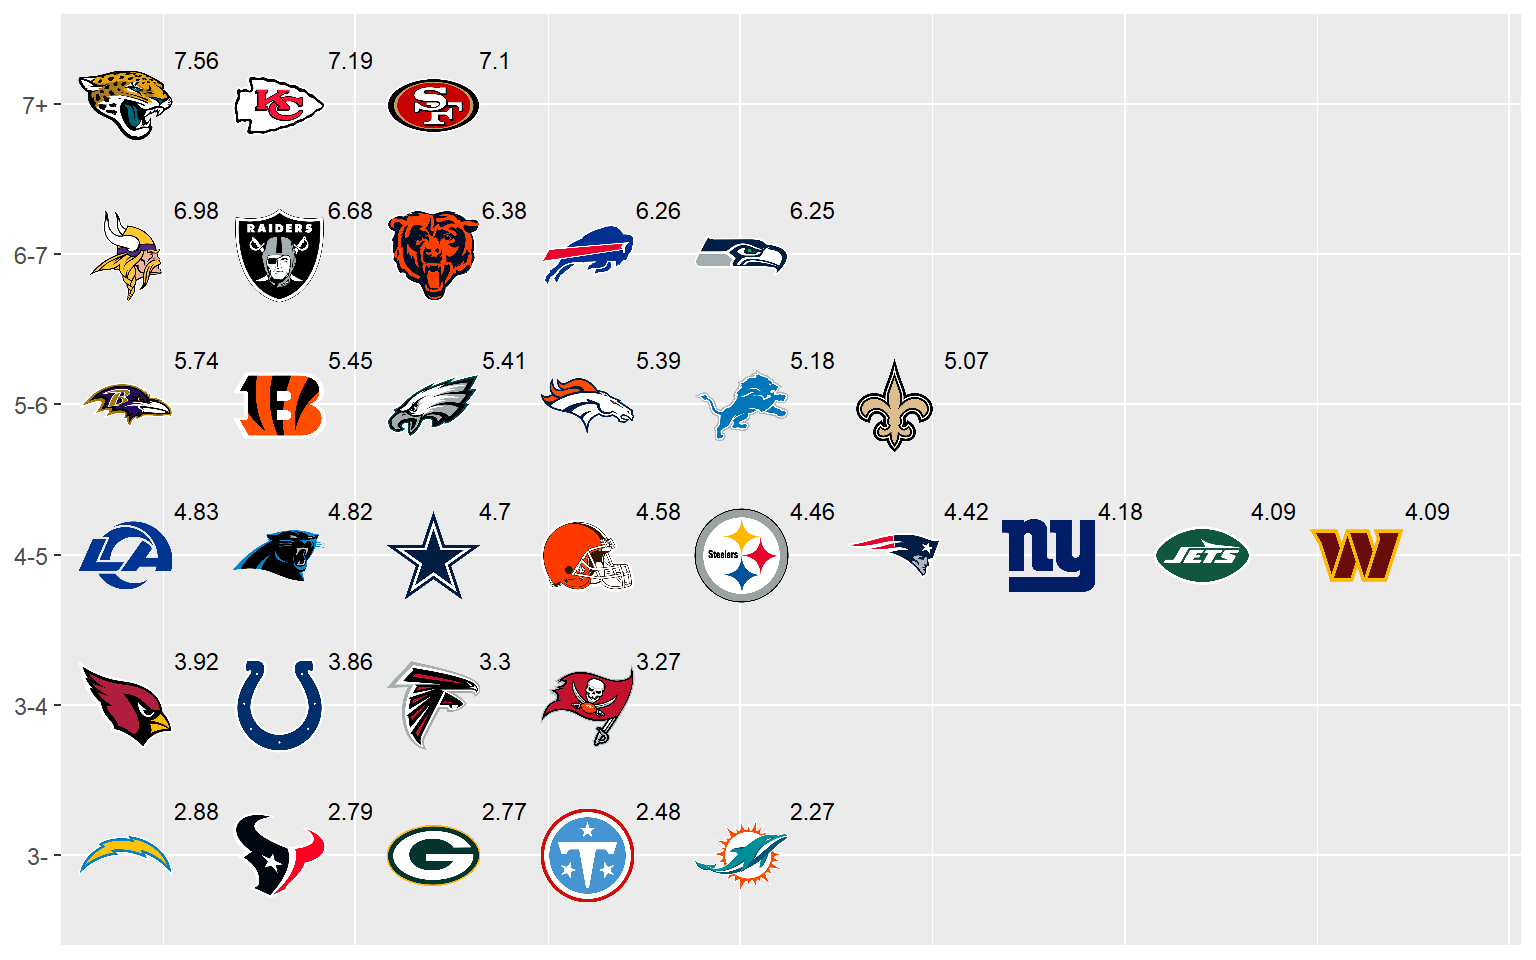
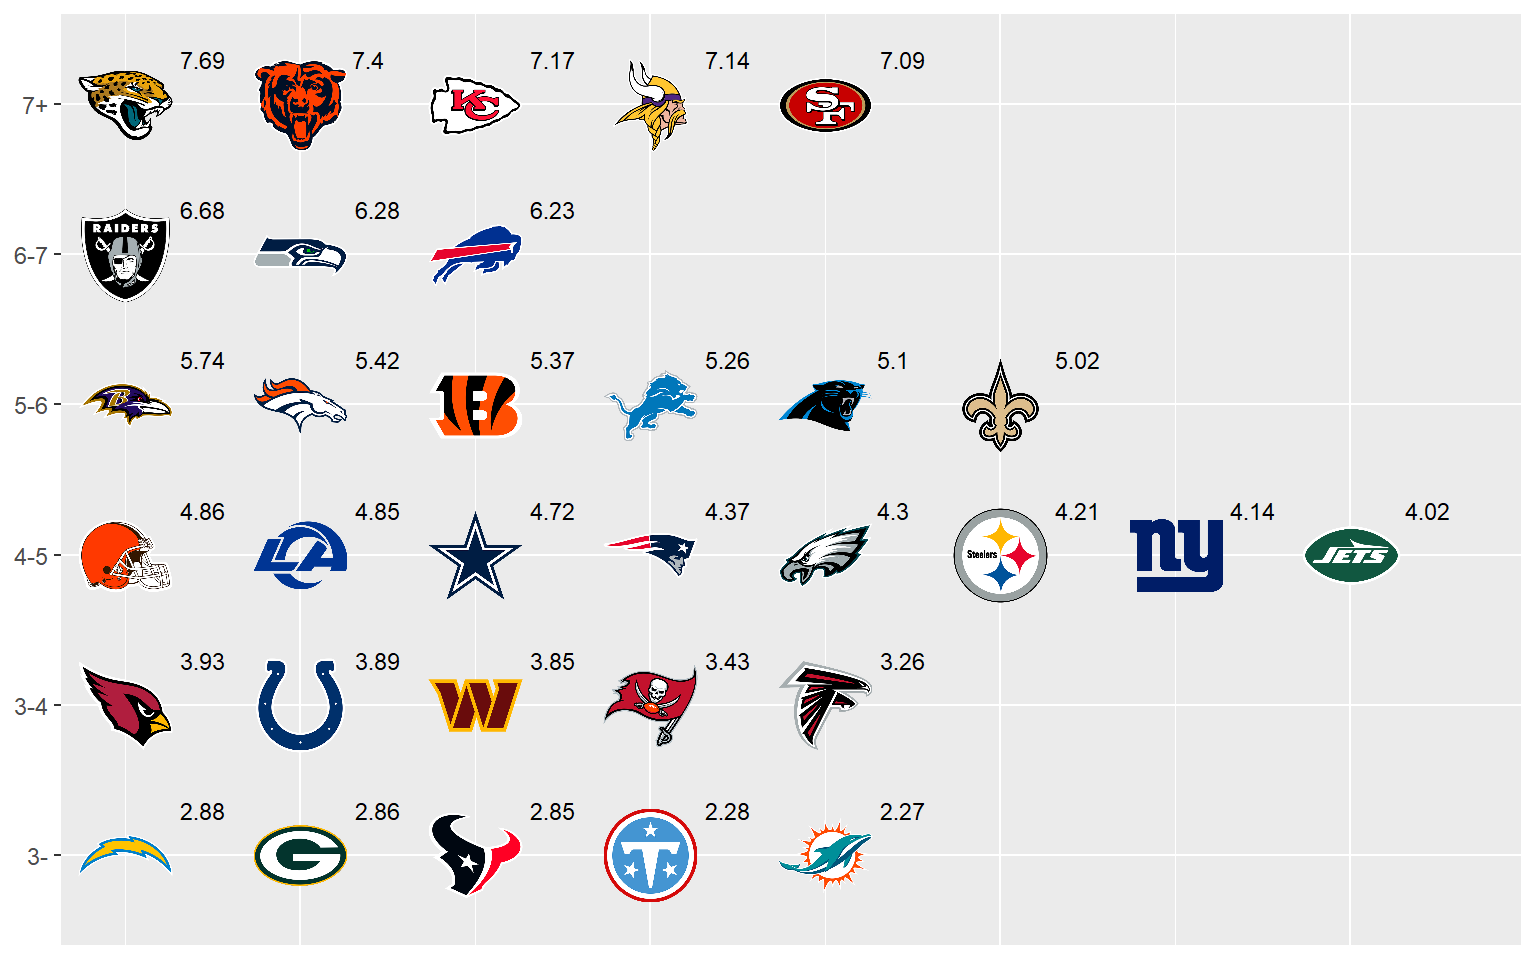
after week tnf

diff --git a/dashboard.html b/dashboard.html
@@ -111,7 +111,7 @@ grid-auto-rows: minmax(0, 1fr);">
 CURRENT WEEK
 </p>
 <p class="value-box-value">
-3
+4
 </p>
 </div>
 </div>
@@ -126,7 +126,7 @@ CURRENT WEEK
 HIGHEST RATING
 </p>
 <p class="value-box-value">
-7.56
+7.69
 </p>
 </div>
 </div>
@@ -156,7 +156,7 @@ LOWEST RATING
 AVERAGE RATING
 </p>
 <p class="value-box-value">
-4.82
+4.83
 </p>
 </div>
 </div>
@@ -173,8 +173,8 @@ TEAM RATINGS
 </span></div></div>
 <div class="card-body html-fill-item html-fill-container">
 <div class="cell-output-display html-fill-item html-fill-container">
-<div class="datatables html-widget html-fill-item html-fill-container" id="htmlwidget-a39356e827d1d55338df" style="width:100%;height:auto;"></div>
-<script type="application/json" data-for="htmlwidget-a39356e827d1d55338df">{"x":{"filter":"none","vertical":false,"data":[["1","2","3","4","5","6","7","8","9","10","11","12","13","14","15","16","17","18","19","20","21","22","23","24","25","26","27","28","29","30","31","32"],["JAX","KC","SF","MIN","LV","CHI","BUF","SEA","BAL","CIN","PHI","DEN","DET","NO","LA","CAR","DAL","CLE","PIT","NE","NYG","NYJ","WAS","ARI","IND","ATL","TB","LAC","HOU","GB","TEN","MIA"],[1.33,2,2,2,2,1,2,1.33,1.33,1.33,2,1.33,1.33,0.67,0.67,0.67,0.67,1.33,1.33,0.67,1.33,0.67,0.67,0.67,0.67,0.67,0,0,0,0.67,0,0],[1.96,1.8,2,1.63,1.71,1.35,1.49,1.53,1.31,1.37,1.14,0.82,0.98,0.98,0.98,1.14,1.14,0.67,0.88,0.71,0.84,1.08,0.67,0.65,0.63,0.67,0.67,0.37,0.59,0.31,0.57,0],[1.86,1.85,2,0.78,0.97,1.83,2,1.38,1.76,1.39,1.49,0.68,1.76,1.06,0.76,1.07,2,0.83,0.38,0.23,0.89,1.11,1.05,1.16,1.2,0,0.24,0,0.51,0.65,0.35,0.18],[1.65,1.23,0.92,2,2,0.79,0.54,1.55,0.6899999999999999,1.17,0.78,0.93,0.16,0.89,1.19,1.19,0.14,0.68,1.33,1.36,0.76,1.04,0.44,0.33,0.31,1.49,1.17,1.21,0.6899999999999999,0.37,0.75,0.09],[0.76,0.31,0.18,0.57,0,1.41,0.23,0.46,0.65,0.19,0,1.63,0.95,1.47,1.23,0.75,0.75,1.07,0.54,1.45,0.36,0.19,1.26,1.11,1.05,0.47,1.19,1.3,1,0.77,0.8100000000000001,2],[7.56,7.19,7.1,6.98,6.68,6.38,6.26,6.25,5.74,5.45,5.41,5.39,5.18,5.07,4.83,4.82,4.7,4.58,4.46,4.42,4.18,4.09,4.09,3.92,3.86,3.3,3.27,2.88,2.79,2.77,2.48,2.27]],"container":"<table class=\"display\">\n  <thead>\n    <tr>\n      <th> <\/th>\n      <th>team<\/th>\n      <th>win_pct<\/th>\n      <th>point_diff<\/th>\n      <th>off_epa<\/th>\n      <th>def_epa<\/th>\n      <th>sos<\/th>\n      <th>total<\/th>\n    <\/tr>\n  <\/thead>\n<\/table>","options":{"bPaginate":false,"dom":"ifrt","language":{"info":"Showing _TOTAL_ entries"},"columnDefs":[{"className":"dt-right","targets":[2,3,4,5,6,7]},{"orderable":false,"targets":0},{"name":" ","targets":0},{"name":"team","targets":1},{"name":"win_pct","targets":2},{"name":"point_diff","targets":3},{"name":"off_epa","targets":4},{"name":"def_epa","targets":5},{"name":"sos","targets":6},{"name":"total","targets":7}],"order":[],"autoWidth":false,"orderClasses":false}},"evals":[],"jsHooks":[]}</script>
+<div class="datatables html-widget html-fill-item html-fill-container" id="htmlwidget-3d8eea62af399f990ab7" style="width:100%;height:auto;"></div>
+<script type="application/json" data-for="htmlwidget-3d8eea62af399f990ab7">{"x":{"filter":"none","vertical":false,"data":[["1","2","3","4","5","6","7","8","9","10","11","12","13","14","15","16","17","18","19","20","21","22","23","24","25","26","27","28","29","30","31","32"],["JAX","CHI","KC","MIN","SF","LV","SEA","BUF","BAL","DEN","CIN","DET","CAR","NO","CLE","LA","DAL","NE","PHI","PIT","NYG","NYJ","ARI","IND","WAS","TB","ATL","LAC","GB","HOU","TEN","MIA"],[1.33,1.33,2,2,2,2,1.33,2,1.33,1.33,1.33,1.33,0.67,0.67,1.5,0.67,0.67,0.67,1.33,1,1.33,0.67,0.67,0.67,0.67,0,0.67,0,0.67,0,0,0],[1.96,1.76,1.8,1.63,2,1.71,1.53,1.49,1.31,0.82,1.37,0.98,1.14,0.98,0.73,0.98,1.14,0.71,0.73,0.82,0.84,1.08,0.65,0.63,0.67,0.67,0.67,0.37,0.31,0.59,0.57,0],[1.86,1.8,1.85,0.78,2,0.97,1.38,2,1.76,0.68,1.39,1.76,1.07,1.06,1.09,0.76,2,0.23,0.93,0.7,0.89,1.11,1.16,1.2,1.05,0.24,0,0,0.65,0.51,0.35,0.18],[1.65,1.28,1.23,2,0.92,2,1.55,0.54,0.6899999999999999,0.93,1.17,0.16,1.19,0.89,0.62,1.19,0.14,1.36,0.6,1.01,0.76,1.04,0.33,0.31,0.44,1.17,1.49,1.21,0.37,0.6899999999999999,0.75,0.09],[0.89,1.23,0.29,0.73,0.17,0,0.49,0.2,0.65,1.66,0.11,1.03,1.03,1.42,0.92,1.25,0.77,1.4,0.71,0.68,0.32,0.12,1.12,1.08,1.02,1.35,0.43,1.3,0.86,1.06,0.61,2],[7.69,7.4,7.17,7.14,7.09,6.68,6.28,6.23,5.74,5.42,5.37,5.26,5.1,5.02,4.86,4.85,4.72,4.37,4.3,4.21,4.14,4.02,3.93,3.89,3.85,3.43,3.26,2.88,2.86,2.85,2.28,2.27]],"container":"<table class=\"display\">\n  <thead>\n    <tr>\n      <th> <\/th>\n      <th>team<\/th>\n      <th>win_pct<\/th>\n      <th>point_diff<\/th>\n      <th>off_epa<\/th>\n      <th>def_epa<\/th>\n      <th>sos<\/th>\n      <th>total<\/th>\n    <\/tr>\n  <\/thead>\n<\/table>","options":{"bPaginate":false,"dom":"ifrt","language":{"info":"Showing _TOTAL_ entries"},"columnDefs":[{"className":"dt-right","targets":[2,3,4,5,6,7]},{"orderable":false,"targets":0},{"name":" ","targets":0},{"name":"team","targets":1},{"name":"win_pct","targets":2},{"name":"point_diff","targets":3},{"name":"off_epa","targets":4},{"name":"def_epa","targets":5},{"name":"sos","targets":6},{"name":"total","targets":7}],"order":[],"autoWidth":false,"orderClasses":false}},"evals":[],"jsHooks":[]}</script>
 </div>
 </div>
 <bslib-tooltip placement="auto" bsoptions="[]" data-require-bs-version="5" data-require-bs-caller="tooltip()">
